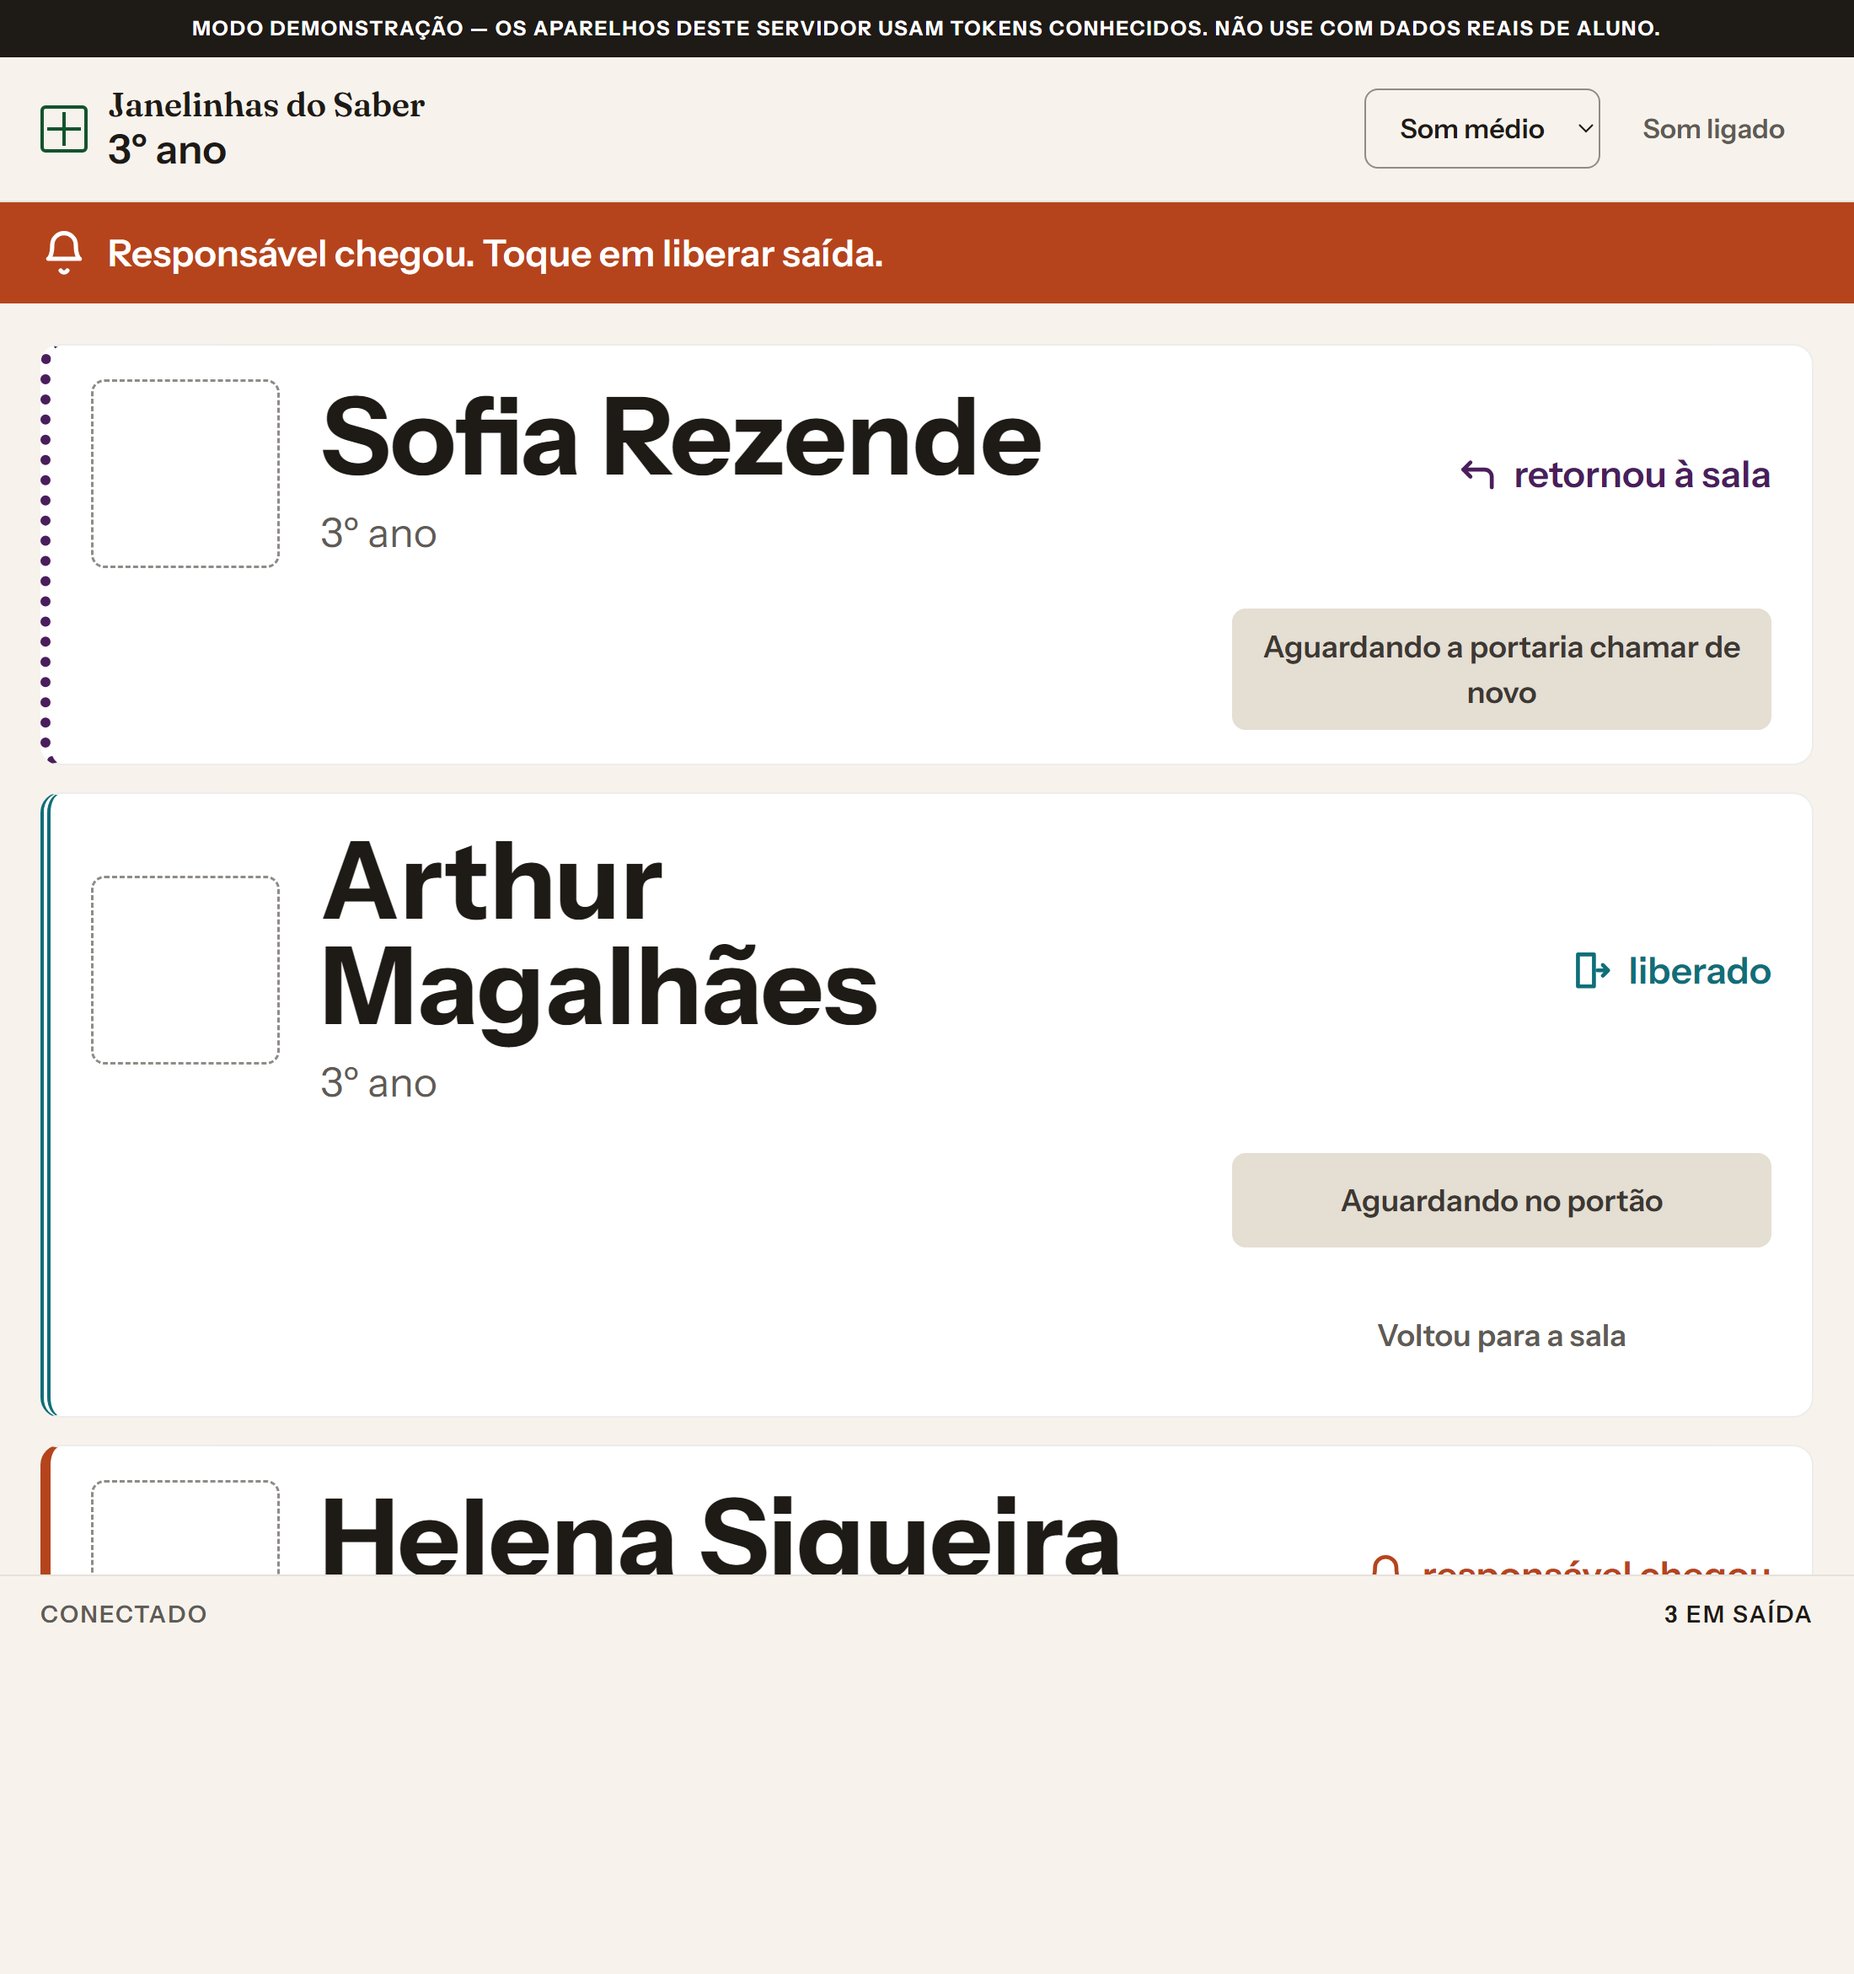
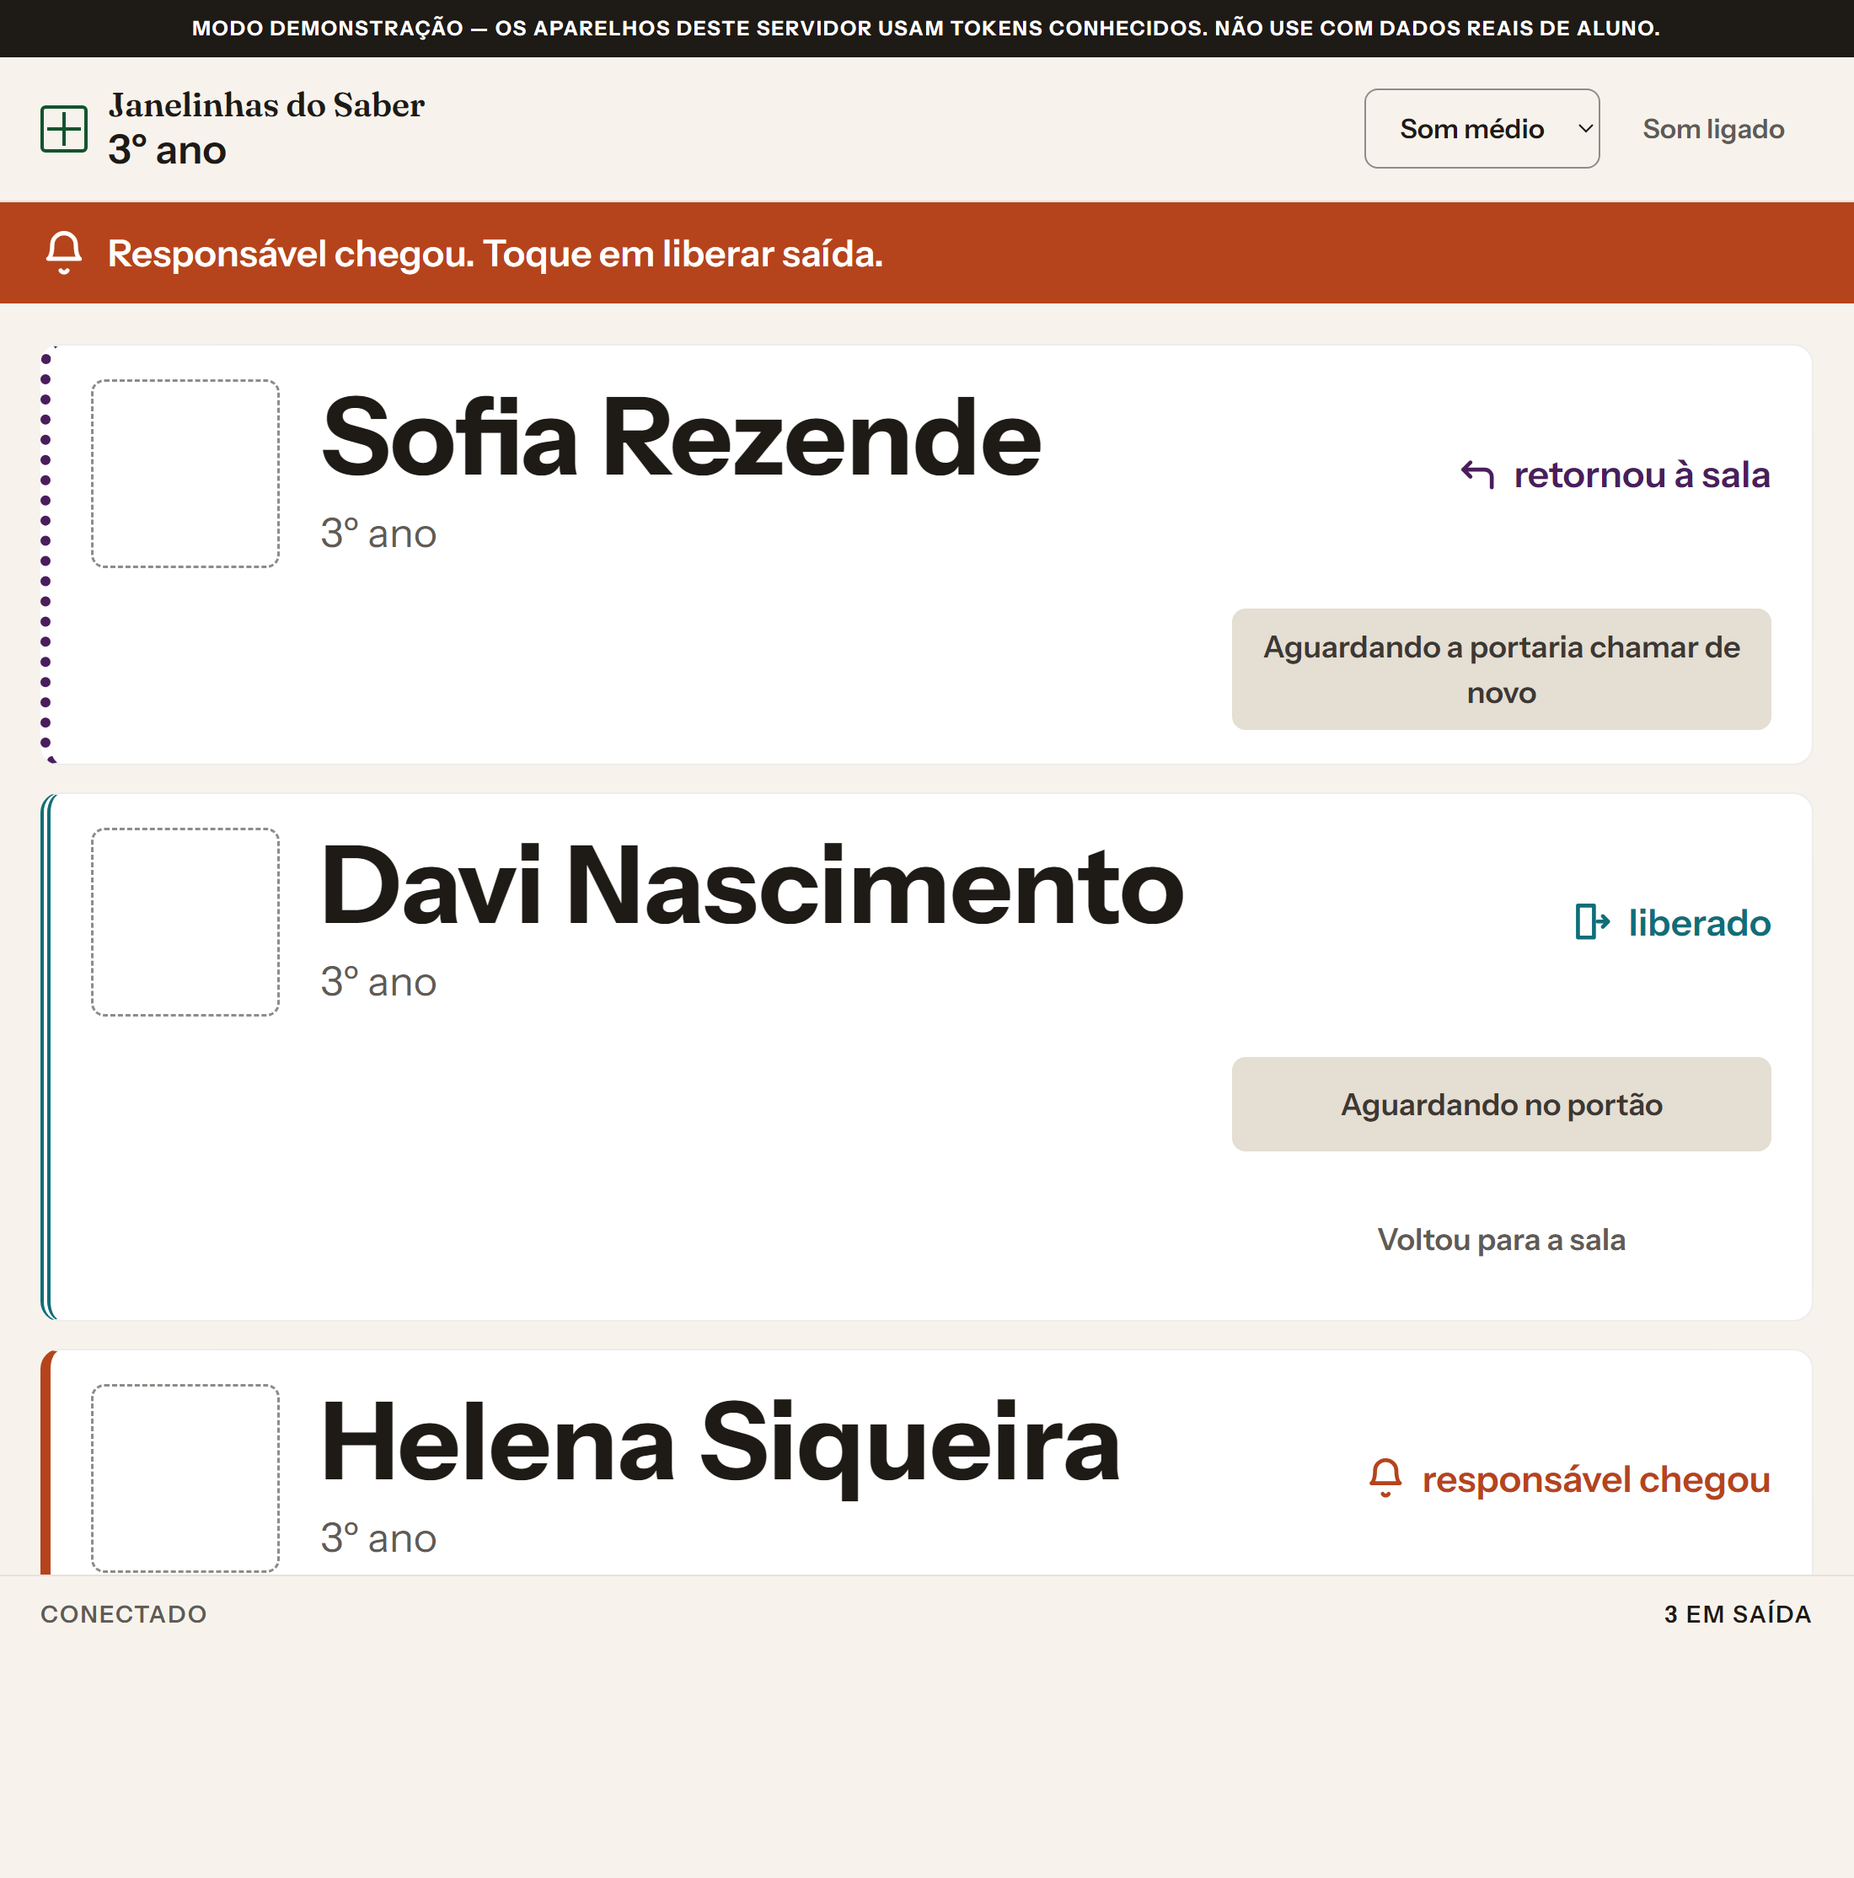
Fecho da noite: wrangler 4.129.0, prints regenerados, paridade das razões, docs
- wrangler 4.128.0 -> 4.129.0: o dev caía com "Network connection lost" numa
  rajada de fechamentos abruptos de WebSocket; a 4.129.0 sobreviveu a 90 deles
  e passou na suíte do workerd e no fim-a-fim.
- docs/prints/patio regenerados com a interface atual (a porta já sem o título
  atrás da tarja).
- Teste de paridade entre ROTULO_RAZAO da tela da sala e RAZOES_RETORNO —
  a terceira cópia que nenhuma sonda cobria.
- Relatório do pente fino com os números finais (240 + 107, peso 82,0 KB);
  Fase 3 anotada como implementada no plano; README aponta os dois documentos.

diff --git a/src/paridade-razoes.test.ts b/src/paridade-razoes.test.ts
@@ -1,0 +1,19 @@
+import { test } from 'node:test'
+import assert from 'node:assert/strict'
+import { readFileSync } from 'node:fs'
+import { RAZOES_RETORNO } from './estados.ts'
+
+/*
+  A tela da sala carrega a propria copia das razoes de retorno (ROTULO_RAZAO,
+  em web/sala/index.html), porque o navegador nao importa .ts. Se um codigo
+  entrar em RAZOES_RETORNO e nao na tela — ou sair de um lado so — a
+  professora escolhe uma razao que o servidor recusa, ou nunca ve uma que ele
+  aceita. Nenhuma sonda cobria essa terceira copia; este teste le o HTML.
+*/
+test('a tela da sala oferece exatamente os codigos de RAZOES_RETORNO', () => {
+  const html = readFileSync(new URL('../web/sala/index.html', import.meta.url), 'utf8')
+  const bloco = html.match(/ROTULO_RAZAO\s*=\s*\[([\s\S]*?)\n\s*\]/)
+  assert.ok(bloco, 'ROTULO_RAZAO nao encontrado em web/sala/index.html')
+  const codigosNaTela = [...bloco![1].matchAll(/\[\s*'([a-z-]+)'\s*,/g)].map((m) => m[1])
+  assert.deepEqual([...codigosNaTela].sort(), [...RAZOES_RETORNO].sort())
+})

diff --git a/docs/pente-fino-2026-09-05.md b/docs/pente-fino-2026-09-05.md
@@ -22,8 +22,9 @@ Três frentes, na ordem:
    que se aponta com arquivo e linha.
 3. **Correções**, cada uma com teste de regressão onde a falha era de lógica.
 
-Portões ao fim: `npm test` **225 + 100**, `typecheck`, `fim-a-fim`, `telas`, `responsivo`
-**45/45**, `peso` **81,5 / 120 KB** — todos com código de saída 0.
+Portões ao fim da noite (depois das duas passadas): `npm test` **239 + 107**, `typecheck`,
+`fim-a-fim`, `telas`, `responsivo` **45/45**, `peso` **82,0 / 120 KB** — todos com código de
+saída 0. Prints regenerados em `docs/prints/patio/`.
 
 ## Corrigido — gravidade alta
 
@@ -145,8 +146,9 @@ um vigia em segundo plano o subiu de novo a cada queda.
 - **Em desenvolvimento, todas as origens caem no mesmo balde do limitador** ("desconhecida",
   porque não há `CF-Connecting-IP`); com trinta falhas e o token certo sempre passando,
   isso deixou de atrapalhar.
-- **`wrangler dev` 4.128.0 cai sob carga** com um ERROR vazio e sugere a 4.129.0. Não
-  atualizei no meio da noite; é uma linha no `package.json` para conferir de dia.
+- **`wrangler dev` 4.128.0 caía sob carga** com um ERROR vazio e sugeria a 4.129.0. Atualizado
+  para a 4.129.0 no fim da noite, com a suíte do workerd e os portões verdes; se ela ainda cair
+  sob HTTP malformado ou rajada de fechamentos, é do runtime local, não do app.
 - **Os 33 achados da rodada 1 que a verificação automática não alcançou** foram triados
   à mão (tabelas acima). A rodada 2, a rodada 3 e a crítica final não rodaram por causa
   do limite de uso. Vale repetir o workflow com o código de agora, de dia.

diff --git a/README.md b/README.md
@@ -245,6 +245,9 @@ em vez de alerta.
 - `docs/plano-refatoracao.md` — a refatoração em curso, com o que cada fase fecha
 - `docs/pesquisa-refatoracao.md` — a pesquisa que a embasa, e onde o código a desmentiu
 - `docs/baseline.md` — os números do "antes", contra os quais cada fase é medida
+- `docs/fase-3-interfaces.md` — os contratos com o backend: `PUT /cadastro`, `GET /trilha`,
+  `POST/DELETE /delegacoes`, e o que ainda depende de quem constrói o backend
+- `docs/pente-fino-2026-09-05.md` — o que o pente fino de 05/09 encontrou, corrigiu e deixou
 - **`docs/lgpd.md` — o que o sistema coleta, onde guarda, quem alcança, e os três
   bloqueios que impedem dado real de entrar hoje. Leia antes de qualquer conversa com a
   escola sobre subir a lista de verdade.**

diff --git a/docs/plano-refatoracao.md b/docs/plano-refatoracao.md
@@ -747,6 +747,11 @@ problema é que ele é de outro lugar.
 
 ## 7. Fase 3 — Ecossistema (esboço de interfaces apenas)
 
+> ✅ **Esboçada e implementada em 05/09/2026**, sob os padrões documentados em
+> `docs/fase-3-interfaces.md` (por instrução do dono): cadastro por API com os ids do
+> backend, trilha exportável por cursor, delegação "hoje a avó busca", e push deixado para o
+> backend a partir da trilha. Na mesma noite, o pente fino: `docs/pente-fino-2026-09-05.md`.
+
 Cadastro por API substituindo a planilha; exportação da trilha no formato `LogAuditoria`; delegação "hoje a avó busca" via portal de pais; push só com fallback e só quando o portal existir.
 
 ---
